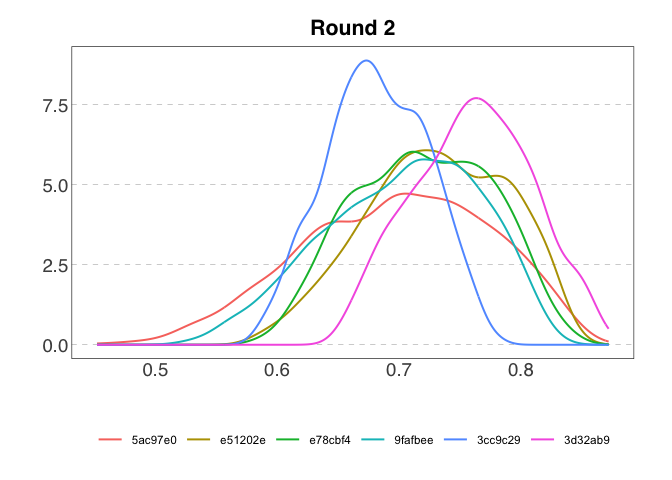
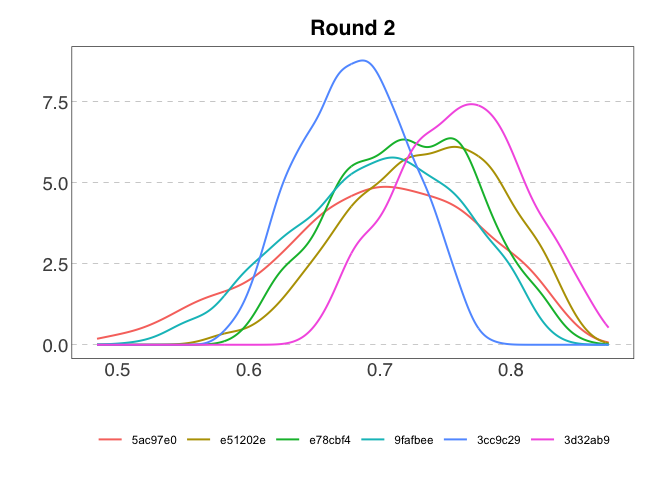
Update Readme

diff --git a/README.md b/README.md
@@ -124,10 +124,9 @@ Plot raw data for variable 2 in round 1:
 
 ``` r
 plot(my_elic_cont, round = 1, var = "var2")
-#> `height` was translated to `width`.
 ```
 
-<img src="man/figures/README-plot-raw-data-1.png" width="100%" />
+<img src="man/figures/README-plot-raw-data-1.png" alt="" width="100%" />
 
 When the elicitation process is part of a workshop and is used for
 demonstration, it can be useful to show a truth argumenton the plot.
@@ -136,10 +135,9 @@ This argument can be added as a list of estimates.
 ``` r
 plot(my_elic_cont, round = 1, var = "var2",
      truth = list(min = 10, max = 20, best = 15))
-#> `height` was translated to `width`.
 ```
 
-<img src="man/figures/README-plot-truth-1.png" width="100%" />
+<img src="man/figures/README-plot-truth-1.png" alt="" width="100%" />
 
 Estimates can also be plotted grouped across experts:
 
@@ -147,10 +145,9 @@ Estimates can also be plotted grouped across experts:
 plot(my_elic_cont, round = 1, var = "var2",
      truth = list(min = 10, max = 20, best = 15),
      group = TRUE)
-#> `height` was translated to `width`.
 ```
 
-<img src="man/figures/README-plot-group-1.png" width="100%" />
+<img src="man/figures/README-plot-group-1.png" alt="" width="100%" />
 
 Data can be sampled from the elicitation object:
 
@@ -163,16 +160,16 @@ samp_cont
 #> # A tibble: 18,000 × 3
 #>    id      var   value
 #>    <chr>   <chr> <dbl>
-#>  1 5ac97e0 var1     -2
-#>  2 5ac97e0 var1     -2
-#>  3 5ac97e0 var1      0
-#>  4 5ac97e0 var1      1
+#>  1 5ac97e0 var1      1
+#>  2 5ac97e0 var1      1
+#>  3 5ac97e0 var1     -2
+#>  4 5ac97e0 var1     -2
 #>  5 5ac97e0 var1      1
-#>  6 5ac97e0 var1      0
+#>  6 5ac97e0 var1      1
 #>  7 5ac97e0 var1     -2
 #>  8 5ac97e0 var1      1
 #>  9 5ac97e0 var1      1
-#> 10 5ac97e0 var1      1
+#> 10 5ac97e0 var1     -2
 #> # ℹ 17,990 more rows
 ```
 
@@ -183,9 +180,9 @@ summary(samp_cont)
 #> # A tibble: 3 × 7
 #>   Var      Min     Q1 Median   Mean     Q3    Max
 #>   <chr>  <dbl>  <dbl>  <dbl>  <dbl>  <dbl>  <dbl>
-#> 1 var1  -4     -2     -2     -1.04   1      1    
-#> 2 var2  11.0   14.4   16.3   16.3   18.3   22.6  
-#> 3 var3   0.452  0.671  0.716  0.715  0.762  0.872
+#> 1 var1  -4     -2      0     -0.972  1      1    
+#> 2 var2  11.0   14.5   16.2   16.3   18.4   22.7  
+#> 3 var3   0.484  0.671  0.716  0.715  0.761  0.874
 ```
 
 And plotted as violin plots:
@@ -254,16 +251,19 @@ topic_3 data are provided as example datasets in the package):
 my_elic_cat <- cat_add_data(my_elic_cat,
                             data_source = topic_1,
                             topic = "Mechanism1")
+#> ℹ Estimates sum to 1. Rescaling to 100.
 #> ✔ Data added to Topic "Mechanism1" from "data.frame"
 
 my_elic_cat <- cat_add_data(my_elic_cat,
                             data_source = topic_2,
                             topic = "Mechanism2")
+#> ℹ Estimates sum to 1. Rescaling to 100.
 #> ✔ Data added to Topic "Mechanism2" from "data.frame"
 
 my_elic_cat <- cat_add_data(my_elic_cat,
                             data_source = topic_3,
                             topic = "Mechanism3")
+#> ℹ Estimates sum to 1. Rescaling to 100.
 #> ✔ Data added to Topic "Mechanism3" from "data.frame"
 
 my_elic_cat
@@ -286,16 +286,16 @@ cat_get_data(my_elic_cat,
 #> # A tibble: 120 × 5
 #>    id      category   option   confidence estimate
 #>    <chr>   <chr>      <chr>         <dbl>    <dbl>
-#>  1 5ac97e0 category_1 option_1         15     0.08
-#>  2 5ac97e0 category_2 option_1         15     0   
-#>  3 5ac97e0 category_3 option_1         15     0.85
-#>  4 5ac97e0 category_4 option_1         15     0.02
-#>  5 5ac97e0 category_5 option_1         15     0.05
-#>  6 5ac97e0 category_1 option_2         35     0.02
-#>  7 5ac97e0 category_2 option_2         35     0.11
-#>  8 5ac97e0 category_3 option_2         35     0.18
-#>  9 5ac97e0 category_4 option_2         35     0.02
-#> 10 5ac97e0 category_5 option_2         35     0.67
+#>  1 5ac97e0 category_1 option_1         15        8
+#>  2 5ac97e0 category_2 option_1         15        0
+#>  3 5ac97e0 category_3 option_1         15       85
+#>  4 5ac97e0 category_4 option_1         15        2
+#>  5 5ac97e0 category_5 option_1         15        5
+#>  6 5ac97e0 category_1 option_2         35        2
+#>  7 5ac97e0 category_2 option_2         35       11
+#>  8 5ac97e0 category_3 option_2         35       18
+#>  9 5ac97e0 category_4 option_2         35        2
+#> 10 5ac97e0 category_5 option_2         35       67
 #> # ℹ 110 more rows
 ```
 
@@ -311,16 +311,16 @@ samp_cat
 #> # A tibble: 2,400 × 7
 #>    id      option   category_1 category_2 category_3 category_4 category_5
 #>    <chr>   <chr>         <dbl>      <dbl>      <dbl>      <dbl>      <dbl>
-#>  1 5ac97e0 option_1   1.34e-12          0     1.000    1.32e-18   1.54e-12
-#>  2 5ac97e0 option_1   3.88e- 1          0     0.612    1.89e- 9   2.98e- 9
-#>  3 5ac97e0 option_1   3.53e- 8          0     1.000    1.41e-43   2.56e-18
-#>  4 5ac97e0 option_1   5.66e- 4          0     0.999    5.26e-11   7.76e-13
-#>  5 5ac97e0 option_1   7.82e-27          0     1.000    1.51e-32   1.62e- 5
-#>  6 5ac97e0 option_1   1.13e- 3          0     0.999    1.89e-16   3.19e- 4
-#>  7 5ac97e0 option_1   1.24e- 3          0     0.999    1.43e-12   3.33e- 8
-#>  8 5ac97e0 option_1   9.42e- 1          0     0.0311   2.69e- 2   3.15e- 4
-#>  9 5ac97e0 option_1   3.77e- 2          0     0.962    5.16e- 4   6.58e- 9
-#> 10 5ac97e0 option_1   1.77e-15          0     0.999    9.17e- 5   5.47e- 4
+#>  1 5ac97e0 option_1     0.0879          0      0.826   0.0247       0.0612
+#>  2 5ac97e0 option_1     0.0452          0      0.917   0.0163       0.0219
+#>  3 5ac97e0 option_1     0.0705          0      0.910   0.000390     0.0190
+#>  4 5ac97e0 option_1     0.0385          0      0.942   0.00231      0.0172
+#>  5 5ac97e0 option_1     0.0604          0      0.859   0.0190       0.0618
+#>  6 5ac97e0 option_1     0.109           0      0.840   0.0116       0.0396
+#>  7 5ac97e0 option_1     0.0645          0      0.817   0.0516       0.0665
+#>  8 5ac97e0 option_1     0.0448          0      0.887   0.0123       0.0559
+#>  9 5ac97e0 option_1     0.119           0      0.756   0.0750       0.0502
+#> 10 5ac97e0 option_1     0.0896          0      0.849   0.0317       0.0294
 #> # ℹ 2,390 more rows
 
 samp_cat <- cat_sample_data(my_elic_cat,
@@ -331,16 +331,16 @@ samp_cat
 #> # A tibble: 1,800 × 7
 #>    id      option   category_1 category_2 category_3 category_4 category_5
 #>    <chr>   <chr>         <dbl>      <dbl>      <dbl>      <dbl>      <dbl>
-#>  1 5ac97e0 option_1   1.50e-16   2.11e-94  2.89e- 26      1.000   2.71e- 6
-#>  2 5ac97e0 option_1   4.28e- 9   4.41e-64  5.51e- 20      1.000   6.55e- 5
-#>  3 5ac97e0 option_1   2.77e- 9   5.40e- 4  4.16e- 70      0.999   1.18e-11
-#>  4 5ac97e0 option_1   4.72e-47   5.34e-26  3.95e-114      0.368   6.32e- 1
-#>  5 5ac97e0 option_1   2.35e- 7   3.36e- 3  4.58e- 88      0.995   1.92e- 3
-#>  6 5ac97e0 option_1   3.57e-81   2.76e-30  9.17e- 64      0.584   4.16e- 1
-#>  7 5ac97e0 option_1   5.58e- 6   2.02e- 3  5.46e- 17      0.750   2.48e- 1
-#>  8 5ac97e0 option_1   1.52e- 1   3.89e-43  2.66e- 78      0.831   1.65e- 2
-#>  9 5ac97e0 option_1   7.79e- 5   1.08e- 2  1.24e- 64      0.989   3.40e-17
-#> 10 5ac97e0 option_1   4.58e-29   1.33e-30  2.30e-  4      1.000   5.88e-25
+#>  1 5ac97e0 option_1    0.0332     0.00647   0.0426        0.801     0.117 
+#>  2 5ac97e0 option_1    0.0300     0.00762   0.00216       0.883     0.0774
+#>  3 5ac97e0 option_1    0.0209     0.00303   0.0176        0.915     0.0439
+#>  4 5ac97e0 option_1    0.0137     0.0239    0.0142        0.875     0.0732
+#>  5 5ac97e0 option_1    0.0293     0.0172    0.00436       0.822     0.127 
+#>  6 5ac97e0 option_1    0.00812    0.00286   0.00411       0.933     0.0522
+#>  7 5ac97e0 option_1    0.0176     0.0143    0.0118        0.847     0.109 
+#>  8 5ac97e0 option_1    0.00447    0.0115    0.00817       0.909     0.0668
+#>  9 5ac97e0 option_1    0.0268     0.0517    0.000157      0.799     0.122 
+#> 10 5ac97e0 option_1    0.0233     0.0477    0.0104        0.874     0.0447
 #> # ℹ 1,790 more rows
 ```
 
@@ -349,13 +349,13 @@ And the sample summarised:
 ``` r
 summary(samp_cat, option = "option_2")
 #> # A tibble: 5 × 7
-#>   Category        Min       Q1     Median   Mean     Q3   Max
-#>   <chr>         <dbl>    <dbl>      <dbl>  <dbl>  <dbl> <dbl>
-#> 1 category_1 0        1.88e-13 0.0139     0.211  0.277  1.000
-#> 2 category_2 1.96e-24 5.72e- 4 0.0256     0.200  0.324  0.996
-#> 3 category_3 4.56e-33 2.08e- 4 0.0163     0.148  0.163  0.994
-#> 4 category_4 0        0        0.00000324 0.0876 0.0169 0.992
-#> 5 category_5 1.43e-15 2.26e- 2 0.199      0.353  0.682  1.000
+#>   Category         Min     Q1 Median   Mean    Q3   Max
+#>   <chr>          <dbl>  <dbl>  <dbl>  <dbl> <dbl> <dbl>
+#> 1 category_1 0.0000133 0.0130 0.161  0.208  0.391 0.598
+#> 2 category_2 0.0341    0.146  0.194  0.190  0.234 0.408
+#> 3 category_3 0.0375    0.133  0.171  0.173  0.209 0.345
+#> 4 category_4 0         0      0.0796 0.0865 0.159 0.311
+#> 5 category_5 0.129     0.245  0.325  0.343  0.424 0.668
 ```
 
 And plotted as violin plots:
